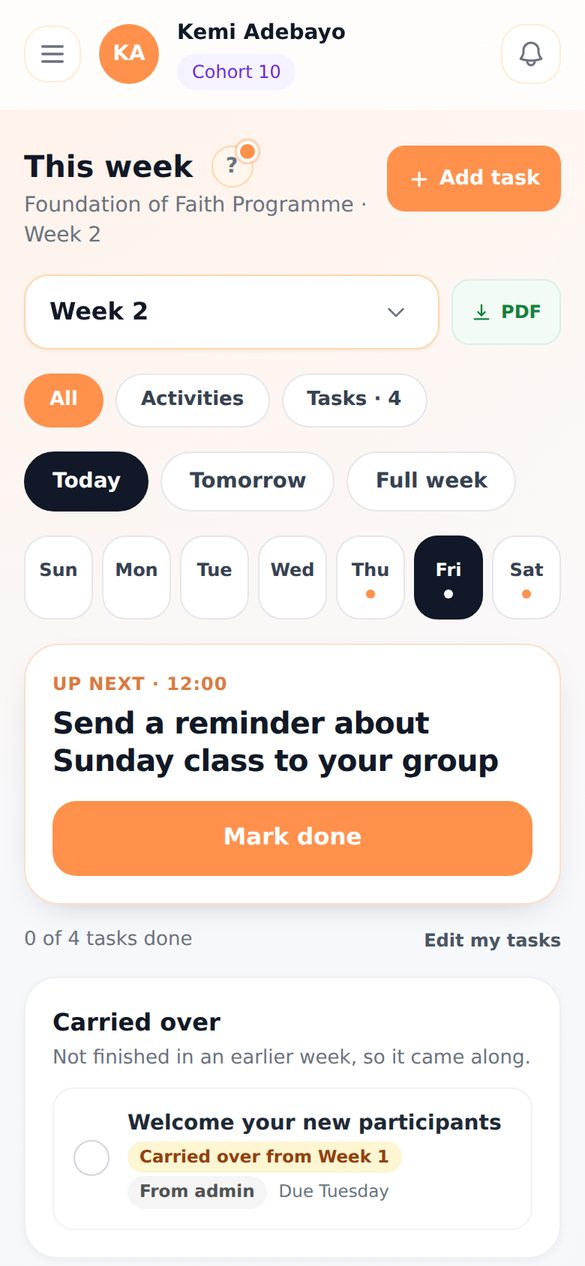
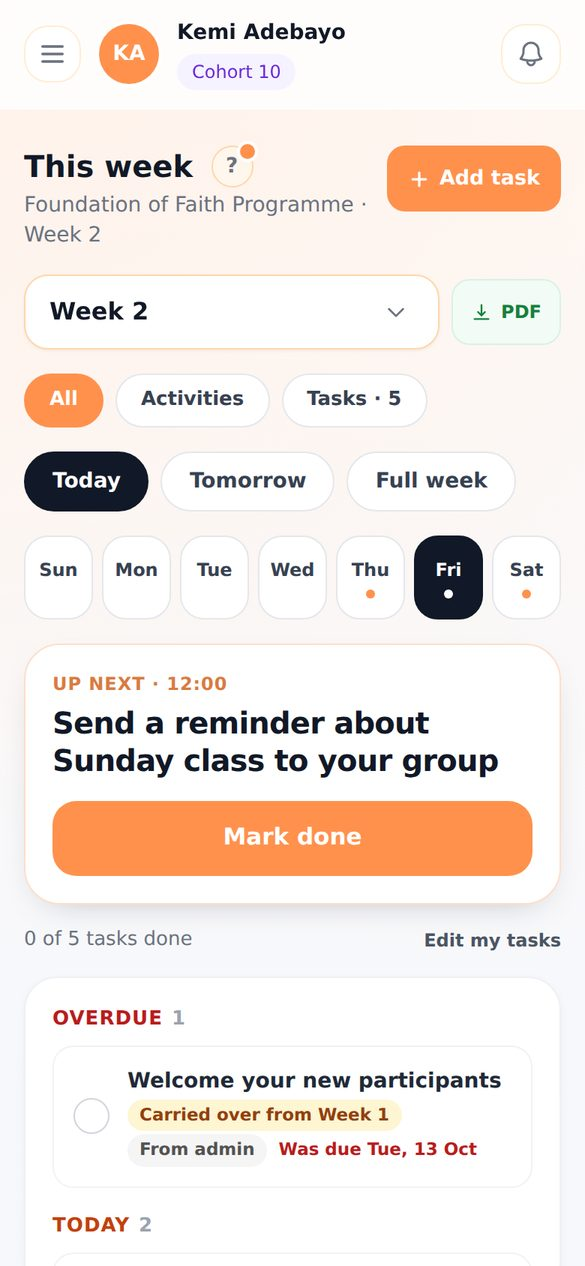
Guides: match the week-independent tasks list
Flow-Map: n/a guide text and screenshots only, nothing in section 4 applies

Claude-Session: https://claude.ai/code/session_01FB56aDBfeXLVZc2gcA5A6g

diff --git a/frontend/public/guides/app-guide/content.js b/frontend/public/guides/app-guide/content.js
@@ -2459,10 +2459,10 @@ window.GUIDE_CONTENT = {
        "steps": [
         "On **Home**, find the **Today** card. Your **Tasks** are under today's activities, with a progress bar.",
         "Tap the box beside a task to tick it off. Tap it again to untick it. Three tasks show; tap **N more tasks** to see the rest.",
-        "For everything, open **Schedule**. Tasks sit on the day they are due, with your activities. Tap **Tasks** at the top to see only tasks.",
+        "For the full list, open **Schedule**. **Your tasks** are grouped as Overdue, Today, Coming up and No deadline. Tap **Tasks** at the top to see only tasks.",
         "Tap **Show completed** to see the ones you have already done."
        ],
-       "result": "The count (for example \"2 of 4 done\") goes up as you tick things off. A task from your admin may ask for an optional note when you tick it.",
+       "result": "The count (for example \"2 of 4 done\") goes up as you tick things off. Your tasks stay the same whichever week you look at. A task from your admin may ask for an optional note when you tick it.",
        "tips": [
         "**Due today** shows in orange and **Was due** in red when a deadline has passed."
        ],
@@ -2671,10 +2671,10 @@ window.GUIDE_CONTENT = {
        ],
        "steps": [
         "Tap **Schedule** in the bottom bar.",
-        "Use the week box to pick a week.",
+        "Use the week box to pick a week. It changes the activities, not your tasks.",
         "Choose **All**, **Activities** or **Tasks**, then **Today**, **Tomorrow** or the **Full week**. You can also tap a day in the strip."
        ],
-       "result": "You see your activities with their times, and your tasks on the day they are due, in one list. If it says \"Schedule not published yet\", the coordinator hasn't finished that week's plan (your tasks still show).",
+       "result": "You see your activities with their times, and your tasks (Overdue, Today, Coming up, No deadline) in one block. If it says \"Schedule not published yet\", the coordinator hasn't finished that week's plan (your tasks still show).",
        "tips": [
         "When an activity is finished, tap **Mark done** on it. You can only do this on the day."
        ]
@@ -2737,10 +2737,10 @@ window.GUIDE_CONTENT = {
         "Choose a deadline: **Today**, **Tomorrow**, **Pick a date…** or **No deadline**.",
         "Tap **Add task**."
        ],
-       "result": "The task appears on the day it is due. Only you can see it.",
+       "result": "The task appears at once in **Your tasks**. Only you can see it.",
        "tips": [
         "To remove one of your own tasks, tap **Edit my tasks**, then **Remove** beside it. Tasks from your admin cannot be removed.",
-        "A task with a date in another week is filed in that week, and a note tells you where."
+        "Your tasks do not change with the week box, so a new task always shows up in the list straight away."
        ],
        "shot": "support-schedule-checklist.jpg"
       },
@@ -2772,10 +2772,10 @@ window.GUIDE_CONTENT = {
        ],
        "steps": [
         "Open **Schedule** or look at **Home**.",
-        "A task you did not finish in an earlier week shows under **Carried over**, tagged **Carried over from Week N**.",
+        "A task you did not finish in an earlier week stays on your list, tagged **Carried over from Week N**. It shows **Was due** in red once its day has passed.",
         "Tick it when you have done it."
        ],
-       "result": "Nothing is lost: unfinished tasks come along into the week that is happening now until you tick them off."
+       "result": "Nothing is lost: unfinished tasks stay on your list, whichever week you look at, until you tick them off."
       },
       {
        "id": "s-rest-weeks",

diff --git a/docs/handoffs/2026-10-25_guides-new-schedule-ui.md b/docs/handoffs/2026-10-25_guides-new-schedule-ui.md
@@ -10,3 +10,6 @@ Date: 2026-10-25. Guide text and pictures only: no migration, no function, no ap
 ## Not done
 - No admin guide entry exists for "Add task for supports" (now with Rest weeks and Group leaders). Add one if admins need it.
 - Screenshots are from a mocked browser with made-up data and the sandbox's fonts, not the live app.
+
+## Addendum (27 Oct)
+After tasks were made independent of the week picker (see 2026-10-24_schedule-and-tasks-one-list.md), the in-app entries (`s-weekly-checklist`, `s-see-schedule`, `s-edit-duties`, `s-carried-over`), the two pictures, the Support guide PDF (v2) and the Teen guide PDF (v7) were redone to match: tasks are one block (Overdue, Today, Coming up, No deadline) and stay the same whichever week is picked.
